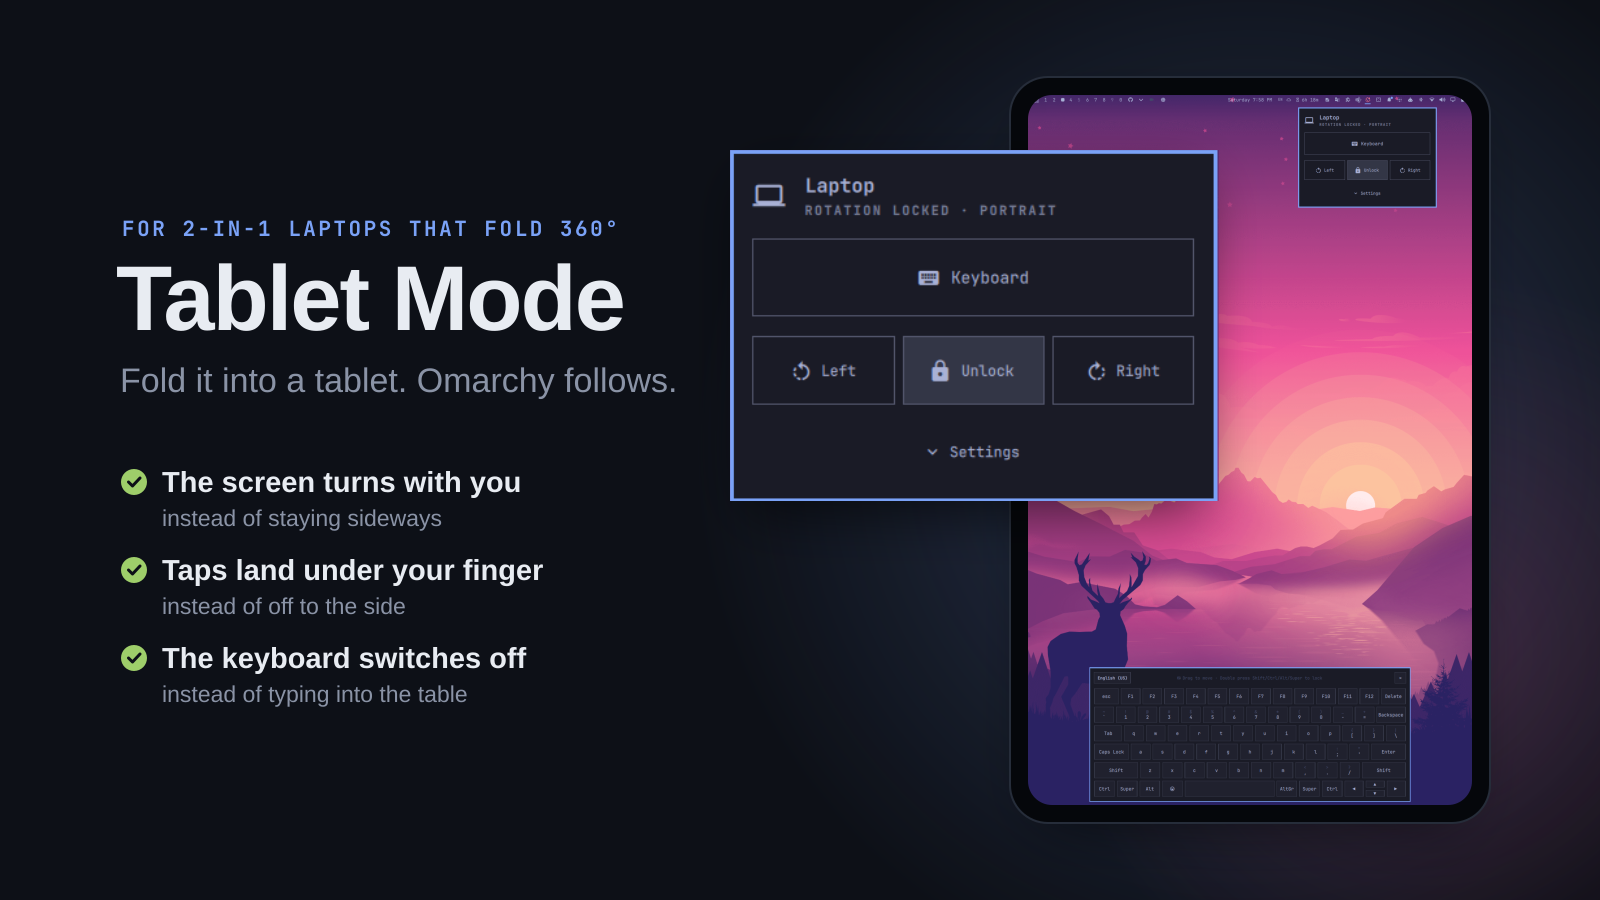
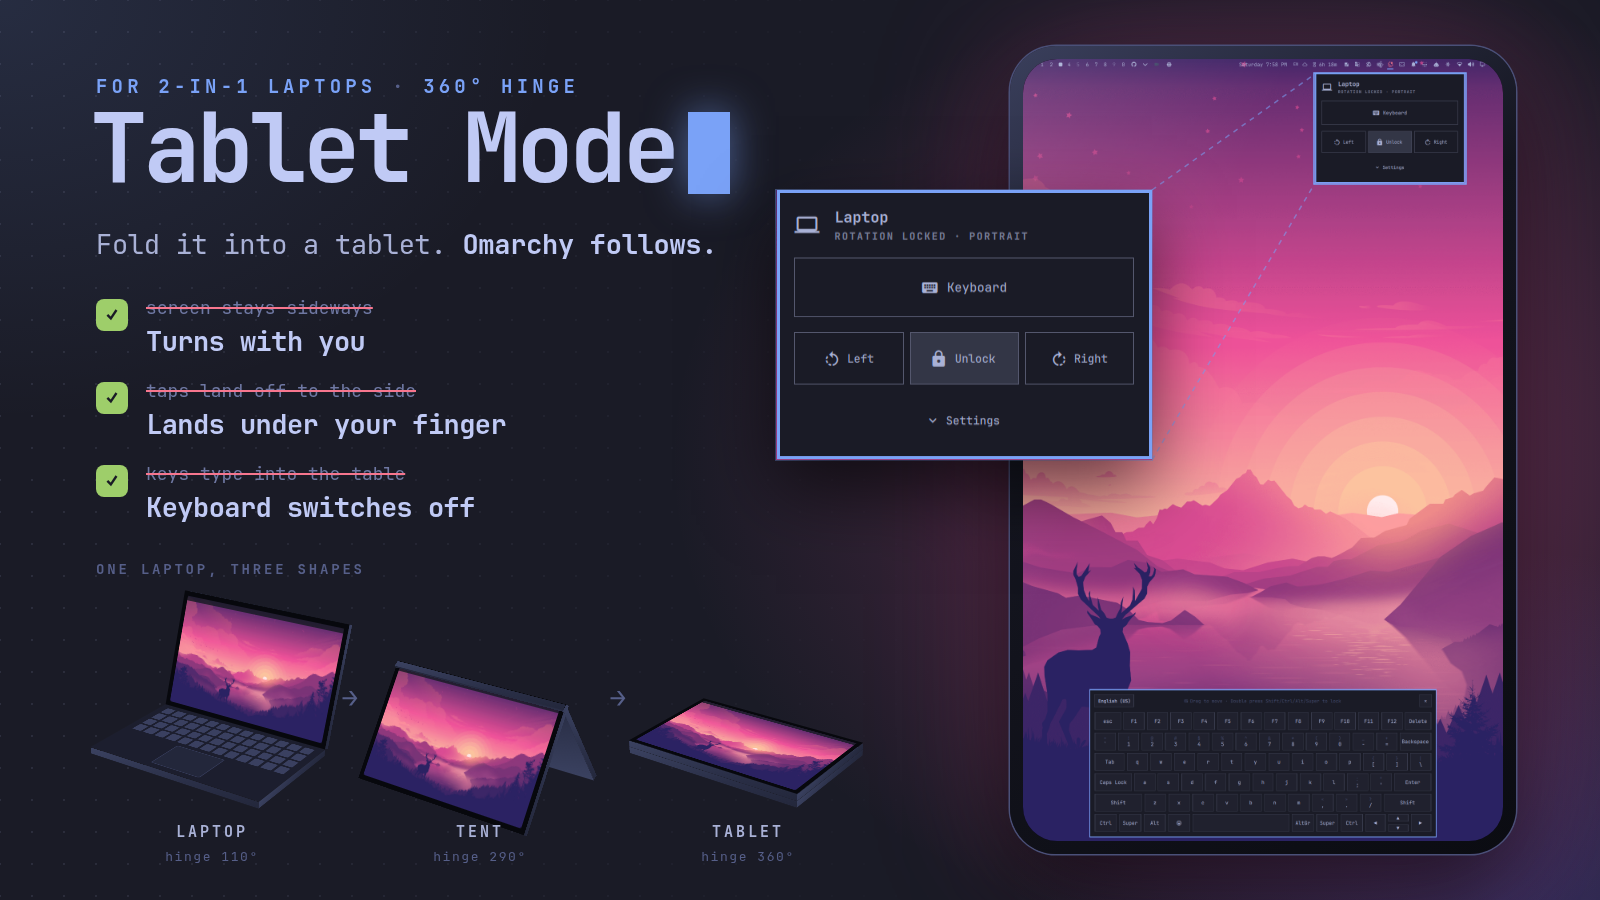
Redraw the catalog preview, and keep its source in assets/preview

diff --git a/assets/preview/preview.html b/assets/preview/preview.html
@@ -1,0 +1,212 @@
+<!doctype html>
+<!-- Catalog preview. Render with:
+  chromium --headless --no-sandbox --hide-scrollbars --force-device-scale-factor=1 --window-size=1600,900 --virtual-time-budget=3000 --screenshot=preview.png file://$PWD/assets/preview/preview.html
+Needs JetBrainsMono Nerd Font installed. -->
+<html>
+<head>
+<meta charset="utf-8">
+<style>
+@font-face { font-family: JB; font-weight: 400; src: local('JetBrainsMono Nerd Font'), local('JetBrainsMonoNerdFont-Regular'); }
+@font-face { font-family: JB; font-weight: 700; src: local('JetBrainsMono Nerd Font Bold'), local('JetBrainsMonoNerdFont-Bold'); }
+:root {
+  --bg: #1a1b26; --bg2: #13141c; --panel: #24283b; --edge: #2f3350;
+  --fg: #a9b1d6; --bright: #c0caf5; --dim: #565f89;
+  --blue: #7aa2f7; --green: #9ece6a; --red: #f7768e; --magenta: #bb9af7;
+}
+* { box-sizing: border-box; margin: 0; padding: 0; }
+html, body { width: 1600px; height: 900px; overflow: hidden; background: var(--bg); }
+body { font-family: JB, monospace; color: var(--fg); position: relative; }
+
+.bg { position: absolute; inset: 0;
+  background:
+    radial-gradient(900px 700px at 1300px 460px, rgba(236, 84, 160, .30), transparent 70%),
+    radial-gradient(700px 500px at 1500px 900px, rgba(122, 90, 220, .30), transparent 70%),
+    radial-gradient(800px 600px at 0px 0px, rgba(122, 162, 247, .13), transparent 70%),
+    var(--bg); }
+.grid { position: absolute; inset: 0;
+  background-image: radial-gradient(rgba(169, 177, 214, .13) 1.2px, transparent 1.4px);
+  background-size: 32px 32px; background-position: 16px 16px;
+  -webkit-mask-image: linear-gradient(90deg, #000 0%, transparent 62%);
+  mask-image: linear-gradient(90deg, #000 0%, transparent 62%); }
+
+/* text column */
+.eyebrow { position: absolute; left: 96px; top: 74px; font-size: 19px; letter-spacing: .22em;
+  color: var(--blue); text-transform: uppercase; font-weight: 700; }
+.eyebrow i { font-style: normal; color: var(--dim); }
+h1 { position: absolute; left: 90px; top: 100px; font-size: 96px; line-height: 1; font-weight: 700;
+  color: var(--bright); letter-spacing: -.045em; white-space: nowrap; }
+h1 .cur { display: inline-block; width: 42px; height: 82px; margin-left: 12px; background: var(--blue);
+  transform: translateY(12px); box-shadow: 0 0 40px rgba(122, 162, 247, .55); }
+.tag { position: absolute; left: 96px; top: 226px; font-size: 27px; color: var(--fg); letter-spacing: -.01em; }
+.tag b { color: var(--bright); font-weight: 700; }
+
+.rows { position: absolute; left: 96px; top: 296px; width: 640px; }
+.row { position: relative; padding-left: 50px; margin-bottom: 20px; }
+.row .no { font-size: 18px; color: #6f78a3; text-decoration: line-through; text-decoration-color: var(--red);
+  text-decoration-thickness: 2px; }
+.row .yes { font-size: 27px; color: var(--bright); font-weight: 700; margin-top: 4px; letter-spacing: -.02em; }
+.row .mark { position: absolute; left: 0; top: 3px; width: 32px; height: 32px; border-radius: 8px;
+  display: grid; place-items: center; font-size: 20px; font-weight: 700; color: #1a1b26; background: var(--green); }
+.row .mark.x { display: none; }
+
+/* fold strip */
+.strip { position: absolute; left: 0; top: 560px; width: 900px; height: 296px; }
+.strip .label { position: absolute; font-size: 15px; letter-spacing: .2em; font-weight: 700; color: var(--fg); white-space: nowrap; }
+.strip .label small { display: block; margin-top: 6px; font-size: 13px; letter-spacing: .12em; color: var(--dim); font-weight: 400; }
+.stage { position: absolute; width: 240px; height: 200px; perspective: 1000px; }
+.scene { position: absolute; left: 120px; top: 100px; width: 0; height: 0; transform-style: preserve-3d; }
+.arrow { position: absolute; top: 96px; font-size: 26px; color: var(--dim); }
+.strip .cap { position: absolute; left: 96px; top: 0; font-size: 14px; letter-spacing: .2em; color: var(--dim); font-weight: 700; }
+
+/* 3D pieces */
+.box { position: absolute; transform-style: preserve-3d; }
+.face { position: absolute; backface-visibility: hidden; }
+.metal { background: linear-gradient(160deg, #3b4261, #2a2f47 60%, #23273b); }
+.keys { background: #1c1e2e; position: absolute; inset: 0; padding: 7px 8px; display: flex; flex-direction: column; gap: 3px; }
+.keys .r { display: flex; gap: 3px; flex: 1; }
+.keys .k { flex: 1; border-radius: 1.5px; background: #3a4060; }
+.keys.off .k { background: #2a2e45; }
+.keys .pad { flex: 3.4; border-radius: 3px; margin: 3px 34% 0; background: #23273b; box-shadow: inset 0 0 0 1px #343a58; }
+.screen { position: absolute; inset: 0; background: #07080d; padding: 5px; }
+.screen div { width: 100%; height: 100%; border-radius: 2px; background: url(wall-land.jpg) center / cover; position: relative; }
+.screen div::before { content: ""; position: absolute; left: 0; right: 0; top: 0; height: 5px; background: rgba(26, 27, 38, .85); }
+
+.shadow { position: absolute; width: 200px; height: 70px; border-radius: 50%; background: radial-gradient(closest-side, rgba(0,0,0,.55), transparent); }
+
+/* tablet */
+.tablet { position: absolute; left: 1010px; top: 46px; width: 506px; height: 808px; border-radius: 46px; padding: 13px;
+  background: linear-gradient(145deg, #3a3f5c, #14151f 40%, #0b0c12);
+  box-shadow: 0 0 0 1.5px #4a5078, 0 40px 90px rgba(0,0,0,.6), 0 0 140px rgba(236, 84, 160, .28); }
+.tablet .glass { width: 100%; height: 100%; border-radius: 34px; overflow: hidden; position: relative; background: #000; }
+.tablet .glass img { width: 100%; height: 100%; display: block; }
+.tablet .glass::after { content: ""; position: absolute; inset: 0;
+  background: linear-gradient(115deg, rgba(255,255,255,.10) 0%, transparent 32%); }
+
+.callout { position: absolute; left: 776px; top: 190px; width: 376px; height: 270px;
+  box-shadow: 0 30px 70px rgba(0,0,0,.6), 0 0 0 1px rgba(122,162,247,.4); }
+.callout img { display: block; width: 100%; height: 100%; }
+.tap { position: absolute; width: 74px; height: 74px; border-radius: 50%; left: 1060px; top: 330px;
+  border: 2px solid rgba(255,255,255,.8); background: radial-gradient(closest-side, rgba(255,255,255,.35), rgba(255,255,255,.0)); }
+</style>
+</head>
+<body>
+<div class="bg"></div><div class="grid"></div>
+
+<div class="eyebrow">For 2-in-1 laptops <i>·</i> 360° hinge</div>
+<h1>Tablet Mode<span class="cur"></span></h1>
+<div class="tag">Fold it into a tablet. <b>Omarchy follows.</b></div>
+
+<div class="rows">
+  <div class="row"><div class="mark">✓</div>
+    <div class="no">screen stays sideways</div><div class="yes">Turns with you</div></div>
+  <div class="row"><div class="mark">✓</div>
+    <div class="no">taps land off to the side</div><div class="yes">Lands under your finger</div></div>
+  <div class="row"><div class="mark">✓</div>
+    <div class="no">keys type into the table</div><div class="yes">Keyboard switches off</div></div>
+</div>
+
+<div class="strip" id="strip"></div>
+
+<div class="tablet"><div class="glass"><img src="../shots/tablet-portrait.png"></div></div>
+<svg style="position:absolute;left:0;top:0" width="1600" height="900">
+  <path d="M1152 190 L1315 74 M1152 460 L1315 183" stroke="#7aa2f7" stroke-opacity=".55" stroke-width="1.5" stroke-dasharray="5 5" fill="none"/>
+  <rect x="1314" y="73" width="152" height="111" fill="none" stroke="#7aa2f7" stroke-width="1.5"/>
+</svg>
+<div class="callout"><img src="panel-crop.png"></div>
+
+<script>
+const W = 200, D = 128, T = 7;
+
+function box(w, h, d, faces) {
+  // box centred on its own origin; w along x, h along y, d along z
+  const b = document.createElement('div'); b.className = 'box';
+  b.style.cssText = `width:0;height:0;`;
+  const mk = (cls, fw, fh, tr, content) => {
+    const f = document.createElement('div'); f.className = 'face ' + cls;
+    f.style.cssText = `width:${fw}px;height:${fh}px;left:${-fw/2}px;top:${-fh/2}px;transform:${tr};`;
+    if (content) f.appendChild(content);
+    b.appendChild(f); return f;
+  };
+  // top: normal -y, image top at back (-z)
+  mk('metal', w, d, `rotateX(90deg) translateZ(${h/2}px)`, faces.top);
+  // bottom: normal +y, image top at front (+z)
+  mk('metal', w, d, `rotateX(-90deg) translateZ(${h/2}px)`, faces.bottom);
+  mk('metal', w, h, `translateZ(${d/2}px)`);
+  mk('metal', w, h, `rotateY(180deg) translateZ(${d/2}px)`);
+  mk('metal', d, h, `rotateY(90deg) translateZ(${w/2}px)`);
+  mk('metal', d, h, `rotateY(-90deg) translateZ(${w/2}px)`);
+  return b;
+}
+function keysEl(off) {
+  const k = document.createElement('div'); k.className = 'keys' + (off ? ' off' : '');
+  for (let r = 0; r < 4; r++) { const row = document.createElement('div'); row.className = 'r';
+    for (let i = 0; i < 13; i++) { const c = document.createElement('div'); c.className = 'k'; row.appendChild(c); }
+    k.appendChild(row); }
+  const p = document.createElement('div'); p.className = 'pad'; k.appendChild(p);
+  return k;
+}
+function screenEl(rot) {
+  const s = document.createElement('div'); s.className = 'screen';
+  s.appendChild(document.createElement('div'));
+  if (rot) s.style.transform = `rotate(${rot}deg)`;
+  return s;
+}
+// A half whose hinge edge sits on the origin and extends to z = D.
+function half(faces) {
+  const h = box(W, T, D, faces);
+  const wrap = document.createElement('div'); wrap.className = 'box'; wrap.style.cssText = 'width:0;height:0;';
+  h.style.transform = `translate(0px, ${T/2}px) translateZ(${D/2}px)`;
+  wrap.appendChild(h); return wrap;
+}
+function laptop(pose) {
+  const root = document.createElement('div'); root.className = 'box';
+  root.style.cssText = `width:0;height:0;transform:${pose.root};`;
+  if (pose.kind === 'tablet') {
+    const base = half({ top: null, bottom: keysEl(true) });
+    base.style.transform = `translateY(${T}px)`;
+    const lid = half({ top: screenEl(0), bottom: null });
+    root.appendChild(base); root.appendChild(lid);
+    return root;
+  }
+  const base = half({ top: keysEl(false), bottom: null });
+  const lidHinge = document.createElement('div'); lidHinge.className = 'box';
+  lidHinge.style.cssText = `width:0;height:0;transform:rotateX(${pose.theta}deg);`;
+  // lid lies above its hinge line: its screen is the bottom face
+  const lid = half({ top: null, bottom: screenEl(pose.kind === 'tent' ? 180 : 0) });
+  lid.style.transform = `translateY(${-T}px)`;
+  lidHinge.appendChild(lid);
+  base.appendChild(lidHinge);
+  // base's children share its (untransformed) frame; put lid hinge beside it
+  root.appendChild(base);
+  return root;
+}
+
+const view = 'rotateX(-24deg) rotateY(-34deg)';
+const poses = [
+  { kind: 'laptop', label: 'LAPTOP', sub: 'hinge 110°', root: 'translateY(46px) translateZ(-56px)', theta: 108 },
+  { kind: 'tent', label: 'TENT', sub: 'hinge 290°', root: 'rotateY(180deg) translateY(-26px) translateZ(-4px) rotateX(-56deg)', theta: 292 },
+  { kind: 'tablet', label: 'TABLET', sub: 'hinge 360°', root: 'translateY(40px) translateZ(-60px)' },
+];
+const strip = document.getElementById('strip');
+const cap = document.createElement('div'); cap.className = 'cap'; cap.textContent = 'ONE LAPTOP, THREE SHAPES'; strip.appendChild(cap);
+poses.forEach((p, i) => {
+  const x = 96 + i * 268;
+  const stage = document.createElement('div'); stage.className = 'stage';
+  stage.style.cssText = `left:${x - 4}px;top:44px;`;
+  const scene = document.createElement('div'); scene.className = 'scene';
+  scene.style.transform = view;
+  const sh = document.createElement('div'); sh.className = 'shadow';
+  sh.style.cssText = `left:-100px;top:${p.kind === 'tent' ? 40 : 36}px;transform:rotateX(90deg) translateZ(${p.kind==='tablet'?-2:0}px);`;
+  scene.appendChild(laptop(p));
+  stage.appendChild(scene);
+  strip.appendChild(stage);
+  const lab = document.createElement('div'); lab.className = 'label';
+  lab.style.cssText = `left:${x + 16}px;top:${262}px;width:200px;text-align:center;`;
+  lab.innerHTML = `${p.label}<small>${p.sub}</small>`;
+  strip.appendChild(lab);
+  if (i < 2) { const a = document.createElement('div'); a.className = 'arrow'; a.textContent = '→';
+    a.style.left = `${x + 246}px`; a.style.top = '120px'; strip.appendChild(a); }
+});
+</script>
+</body>
+</html>

diff --git a/README.md b/README.md
@@ -392,11 +392,12 @@ touches the running compositor or your config. What it cannot cover -- folding,
 the pen, monitors, sleep -- is in [`tests/MANUAL.md`](tests/MANUAL.md), a
 checklist to go through on a real 2-in-1 before a release.
 
-The icon, the illustrations and `preview.png` are drawn by `assets/make-art`;
-change the words or colors there and run it again. The preview is built around
-`assets/shots/tablet-portrait.png`, a screenshot of the screen turned upright
-with the panel and an on-screen keyboard open, taken with the Tokyo Night
-theme. `assets/panel.png` is a screenshot of the panel.
+The icon and the illustrations are drawn by `assets/make-art`; change the words
+or colors there and run it again. `preview.png` is rendered from
+`assets/preview/preview.html` (the command is at the top of that file). It is
+built around `assets/shots/tablet-portrait.png`, a screenshot of the screen
+turned upright with the panel and an on-screen keyboard open, taken with the
+Tokyo Night theme. `assets/panel.png` is a screenshot of the panel.
 
 ## Uninstall
 
